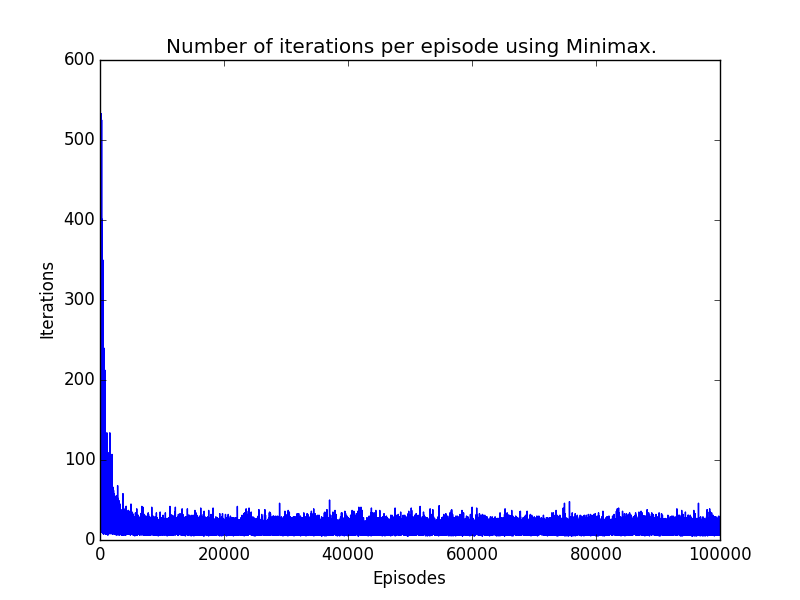
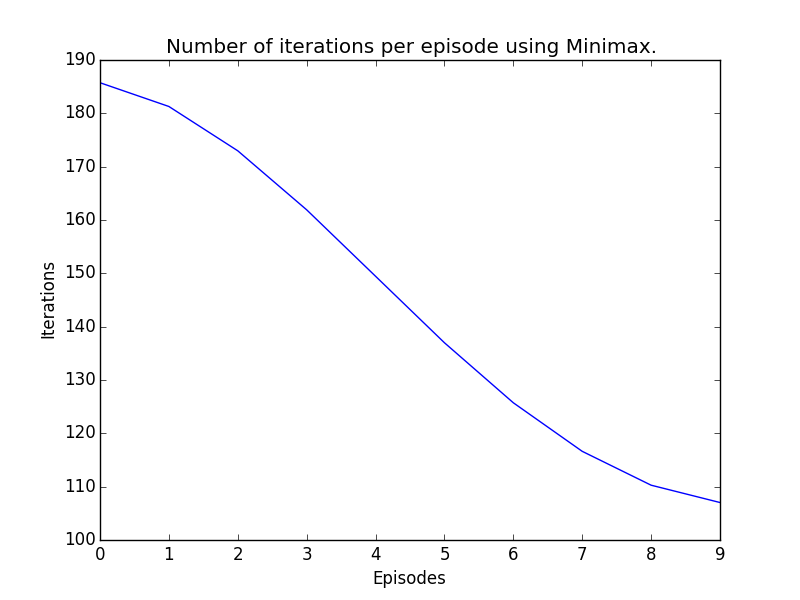
hard for prey made

diff --git a/Assignment 3/Assignment3.2.2.py b/Assignment 3/Assignment3.2.2.py
@@ -9,8 +9,8 @@ pl.title('Probability of episode ending with prey caught.')
 pl.ylabel('Prey caught ratio')
 pl.xlabel('Episodes')
 predatorLocations = [(0,0),(10,0),(0,10),(10,10)]
-episodes = 1000
-runs = 4
+episodes = 10000
+runs = 10
 labels = []
 avesteps = np.zeros((4,episodes))
 avestepscatch = np.zeros((4,episodes))
@@ -19,7 +19,7 @@ avecatch = np.zeros((4,episodes))
 for predators in range(1,5):#range(1,5)[::-1]:
     totalcatch = np.zeros((episodes))
     for i in range(runs):
-        steps, rewards = Qlearning(episodes, predatorLocations[:predators], epsGreedyPolicy,alpha_pred=0.4,alpha_prey=0.05)
+        steps, rewards = Qlearning(episodes, predatorLocations[:predators], epsGreedyPolicy,alpha_pred=0.005,alpha_prey=0.2)
         steps   = np.array(steps)
         rewards = np.array(rewards)
         avesteps[predators-1,:] += steps
@@ -33,13 +33,11 @@ for predators in range(1,5):#range(1,5)[::-1]:
     avesteps[predators-1,:]      /= runs
     avestepscatch[predators-1,:] /= totalcatch
 
-    avecatch[predators-1,:]      = ndimage.filters.gaussian_filter(avecatch[predators-1,:],40)
-    avesteps[predators-1,:]      = ndimage.filters.gaussian_filter(avesteps[predators-1,:],40)
-    avestepscatch[predators-1,:] = ndimage.filters.gaussian_filter(avestepscatch[predators-1,:],40)
+    avecatch[predators-1,:]      = ndimage.filters.gaussian_filter(avecatch[predators-1,:],20)
+    avesteps[predators-1,:]      = ndimage.filters.gaussian_filter(avesteps[predators-1,:],20)
 
     if predators > 1:
         avestepscrash[predators-1,:] /= (runs-totalcatch)
-        avestepscrash[predators-1,:]  = ndimage.filters.gaussian_filter(avestepscrash[predators-1,:],40)
     pl.plot(range(episodes),avecatch[predators-1,:])
     labels.append(str(predators) + " predators")
 
@@ -74,16 +72,16 @@ ax = pl.subplot(111)
 pl.title('Average number of iterations per episode ending with prey caught.')
 pl.ylabel('Iterations in episode')
 pl.xlabel('Episodes')
-for predators in range(2,5):
+for predators in range(1,5):
     ind = np.logical_not(np.isnan(avestepscatch[predators-1,:]))
-    pl.plot(np.arange(episodes)[ind],avestepscatch[predators-1,ind])
+    pl.plot(np.arange(episodes)[ind],ndimage.filters.gaussian_filter(avestepscatch[predators-1,ind],20))
 
 # Shrink current axis by 20%
 box = ax.get_position()
 ax.set_position([box.x0, box.y0, box.width * 0.8, box.height])
 
 # Put a legend to the right of the current axis
-ax.legend(labels[1:],loc='center left', bbox_to_anchor=(1, 0.5))
+ax.legend(labels,loc='center left', bbox_to_anchor=(1, 0.5))
 pl.savefig("plots/hardstepscatch321.png")
 
 
@@ -94,7 +92,7 @@ pl.ylabel('Iterations in episode')
 pl.xlabel('Episodes')
 for predators in range(2,5):
     ind = np.logical_not(np.isnan(avestepscrash[predators-1,:]))
-    pl.plot(np.arange(episodes)[ind],avestepscrash[predators-1,ind])
+    pl.plot(np.arange(episodes)[ind],ndimage.filters.gaussian_filter(avestepscrash[predators-1,ind],20))
 
 # Shrink current axis by 20%
 box = ax.get_position()

diff --git a/Assignment 3/minimax.py b/Assignment 3/minimax.py
@@ -64,7 +64,7 @@ def minimax(episodes,initial_state,epsilon, decay, gamma, alpha=1.0):
             # if (state,action_pred) not in Q_pred:
             #     Q_pred[state,action_pred] = initValue 
             Q_pred[(state,action_pred,action_prey)] = (1.0-alpha)*Q_pred[(state,action_pred,action_prey)] + alpha*(reward[1]+ gamma* V_pred[new_state])
-            # Q_prey[(state,action_pred,action_prey)] = (1.0-alpha)*Q_prey[(state,action_pred,action_prey)] + alpha*(reward[0]+ gamma* V_prey[new_state])
+            Q_prey[(state,action_pred,action_prey)] = (1.0-alpha)*Q_prey[(state,action_pred,action_prey)] + alpha*(reward[0]+ gamma* V_prey[new_state])
 
             # update pi
             # adapted from example: http://abel.ee.ucla.edu/cvxopt/examples/tutorial/lp.html
@@ -119,7 +119,8 @@ def minimax(episodes,initial_state,epsilon, decay, gamma, alpha=1.0):
 
 
             alpha *= decay
-        print "Episode",epi
+        if epi > 0 and epi % 10 == 0:
+            print "Episode",epi
         steps[epi]   = iterations
         if reward[1] > 0:
             rewards[epi] = 1

diff --git a/Assignment 3/Assignment3.2.4.py b/Assignment 3/Assignment3.2.4.py
@@ -4,7 +4,7 @@ from world import World
 from minimax import minimax
 from scipy import ndimage
 
-episodes = 10
+episodes = 1000
 runs = 1
 
 steps = np.zeros((episodes))
@@ -14,10 +14,11 @@ for i in range(runs):
 
 steps /= runs
 
-steps = ndimage.filters.gaussian_filter(steps)
+steps = ndimage.filters.gaussian_filter(steps,4)
 
 pl.title('Number of iterations per episode using Minimax.')
 pl.ylabel('Iterations')
 pl.xlabel('Episodes')
 pl.plot(range(len(steps)), steps)
-pl.savefig("plots/longrun322.png")
+pl.show()
+# pl.savefig("plots/longrun322.png")
